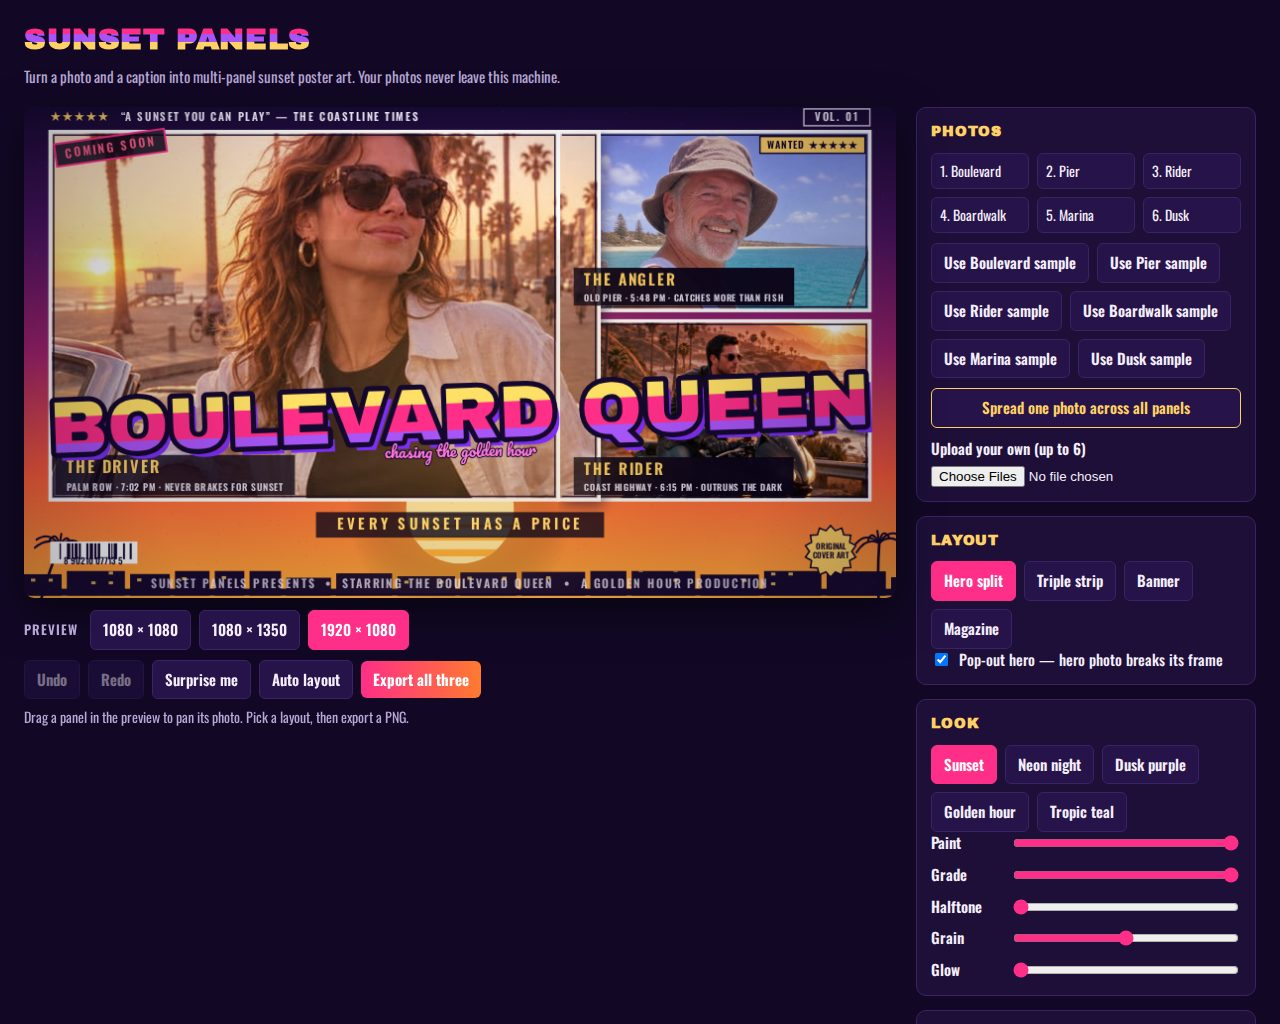
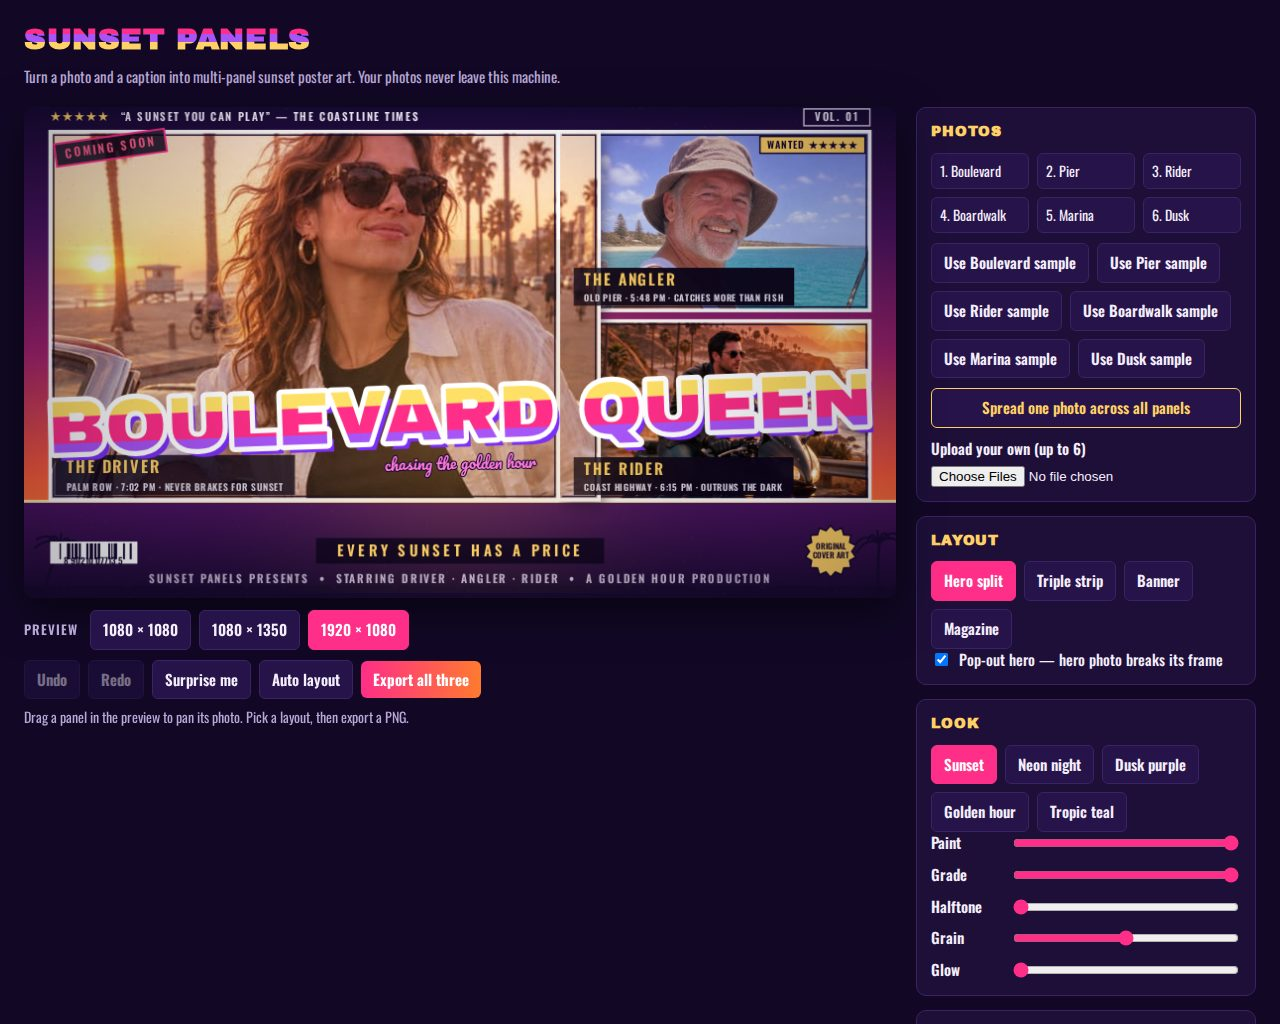
Round 5 revisions: denser cover, bigger white-outlined title, dark footer

Changed region(s): [[0.0, 0.125, 0.7188, 0.5938]]

diff --git a/app/src/cover.js b/app/src/cover.js
@@ -4,7 +4,7 @@
 // are the same drawing. Photos are drawn cover-fit per panel with the panel's
 // own zoom and pan; the caption is big condensed lettering over the low sun.
 
-import { GRADES, paintSky, paintSun, paintSkyline, paintPalm, paintPhotoGrade, paintGrain, paintHalftone, paintVignette, paintStarburst, paintBarcode } from './art.js';
+import { GRADES, paintSky, paintSkyline, paintPalm, paintPhotoGrade, paintGrain, paintHalftone, paintVignette, paintStarburst, paintBarcode } from './art.js';
 import { LAYOUTS, layoutPanels } from './layouts.js';
 
 // Title stripe palettes, picked by the editor's title-colour swatch. The
@@ -18,7 +18,7 @@ export const TITLE_GRADIENTS = {
 
 // Title styles (the editor's Title style switcher). Stripes is the
 // default and renders exactly as the title always has: striped gradient
-// fill + 3D offsets + black outline. Smooth keeps the same palette and
+// fill + 3D offsets + white outline. Smooth keeps the same palette and
 // offsets with a solid (unbanded) gradient. Neon outline is a neon tube:
 // dark glyph fill (so the letter shapes read over busy photos) + a thick
 // gradient stroke + a restrained glow, no 3D offsets.
@@ -152,18 +152,30 @@ function fitTitleFont(ctx, text, maxWidth, baseSize, font) {
 }
 
 // Big condensed title over the photo panels: the masthead IS the poster.
-// It sits across the lower third of the panels (~0.63H, ~0.165H tall) with
+// It sits across the lower third of the panels (~0.63H, ~0.175H tall) with
 // the same yellow/pink/purple striped gradient fill, purple 3D offset under
-// a magenta offset, black outline, tilted two degrees. Faces stay clear
-// because every sample frames its face in the top of its photo.
+// a magenta offset, and a WHITE outline — the white halo separates the
+// letters from any photo background, the way the top-rated covers do
+// (Round 5: the old dark outline merged into dark photo areas, and the
+// title spanned only ~0.77W where the top covers span ~0.85–0.95W).
+// The size is 0.175H, not 0.185H: at 0.185H the title's top edge
+// (0.5375H) plus the taller panels pushed the bottom-row faces' eyes
+// above the panels' top edge (verified by a Playwright probe — the
+// guard can only pan a face so far up before the subject stops
+// fitting). At 0.175H the eyes stay visible with the chin at the
+// title's top edge. Faces stay clear because every sample frames its
+// face in the top of its photo, and the editor's masthead guard
+// (autoFramePanels) knows this geometry: titleTop is 0.63H minus
+// (0.36 cap + 0.14 outline) of 0.175H.
 // `state.titleStyle` picks the fill: 'stripes' (default, striped gradient),
 // 'smooth' (same palette and offsets, solid gradient) or 'neon' (neon tube:
-// dark glyph fill, thick gradient stroke, restrained glow, no 3D offsets).
+// dark glyph fill, thick gradient stroke, restrained glow, no 3D offsets —
+// the neon look keeps its dark fill, it is a different treatment).
 export function drawPosterTitle(ctx, W, H, state, grade) {
   const u = W / 1080;
   const title = (state.title || '').toUpperCase();
   if (!title) return;
-  const baseSize = H * 0.165 * (state.titleSize || 1);
+  const baseSize = H * 0.175 * (state.titleSize || 1);
   const font = TITLE_FONTS.some((f) => f.id === state.titleFont) ? state.titleFont : 'Archivo Black';
   const size = fitTitleFont(ctx, title, W * 0.94, baseSize, font);
   // Colour template wins when set (default 'sunset' = the original
@@ -227,9 +239,11 @@ export function drawPosterTitle(ctx, W, H, state, grade) {
     ctx.strokeText(title, 0, 0);
     ctx.shadowBlur = 0;
   } else {
-    // Black outline, then the gradient fill (striped or smooth).
+    // White outline, then the gradient fill (striped or smooth). The
+    // white halo is what makes the title pop off busy photos; the purple
+    // and magenta 3D offsets underneath still give it depth.
     if (state.outline !== false) {
-      ctx.strokeStyle = '#14082e';
+      ctx.strokeStyle = '#ffffff';
       ctx.lineWidth = Math.max(3, size * 0.14);
       ctx.strokeText(title, 0, 0);
     }
@@ -259,7 +273,7 @@ export function drawScriptSubtitle(ctx, W, H, state) {
   ctx.textAlign = 'center';
   ctx.textBaseline = 'middle';
   ctx.lineJoin = 'round';
-  ctx.translate(W / 2, H * 0.705);
+  ctx.translate(W / 2, H * 0.73);
   ctx.rotate(-0.02);
   ctx.strokeStyle = '#14082e';
   ctx.lineWidth = Math.max(2, size * 0.1);
@@ -442,11 +456,20 @@ function drawSeal(ctx, W, H, grade) {
   ctx.restore();
 }
 
-// Production-credits footer along the very bottom edge. The text is
+// Production-credits footer along the very bottom edge. The cast list is
+// built from the panels' role tags (the "THE " prefix stripped), so the
+// footer names the whole cast the way the top covers do — "STARRING THE
+// BOULEVARD QUEEN" named one person; now every panel's role is listed.
+// Falls back to the static text when a cover has no tags. The text is
 // shrunk to fit between the barcode (left) and the seal (right), so it
 // never runs off the canvas or under either of them.
-function drawCredits(ctx, W, H) {
-  const text = 'SUNSET PANELS PRESENTS  •  STARRING THE BOULEVARD QUEEN  •  A GOLDEN HOUR PRODUCTION';
+function drawCredits(ctx, W, H, state) {
+  const roles = (state && Array.isArray(state.panels) ? state.panels : [])
+    .map((p) => (p && p.tag ? String(p.tag).replace(/^THE\s+/i, '').trim() : ''))
+    .filter(Boolean);
+  const text = roles.length
+    ? `SUNSET PANELS PRESENTS  •  STARRING ${roles.join(' · ').toUpperCase()}  •  A GOLDEN HOUR PRODUCTION`
+    : 'SUNSET PANELS PRESENTS  •  STARRING THE BOULEVARD QUEEN  •  A GOLDEN HOUR PRODUCTION';
   const maxW = W * 0.72;
   let size = Math.max(9, W * 0.0135);
   ctx.save();
@@ -459,26 +482,36 @@ function drawCredits(ctx, W, H) {
   ctx.fillStyle = 'rgba(245, 238, 252, 0.75)';
   ctx.textAlign = 'center';
   ctx.textBaseline = 'middle';
-  ctx.fillText(text, W / 2, H * 0.972);
+  ctx.fillText(text, W / 2, H * 0.962);
   ctx.restore();
 }
 
-// Tagline on a translucent black ribbon under the title.
+// Tagline on a translucent black ribbon in the footer band (Round 5: it
+// used to sit at 0.825H, where it bisected the footer sun disc and sat
+// far from the masthead; the footer is now a slim dark band, so the
+// ribbon lives there, clear of the seal at the right — its width is
+// capped at 0.68W and the type shrinks to fit, so long taglines stay
+// inside the ribbon instead of spilling past its ends).
 export function drawTaglineRibbon(ctx, W, H, state) {
   const tagline = (state.tagline || '').toUpperCase();
   if (!tagline) return;
   const u = W / 1080;
-  const size = Math.max(13, H * 0.03);
+  let size = Math.max(13, H * 0.03);
   ctx.save();
   ctx.font = `600 ${size}px Oswald, sans-serif`;
   try { ctx.letterSpacing = `${Math.max(2, size * 0.22)}px`; } catch { /* older canvas: no letter spacing */ }
-  const tw = ctx.measureText(tagline).width;
   const padX = u * 26;
   const padY = H * 0.011;
-  const ribbonW = Math.min(W * 0.92, tw + padX * 2);
+  let tw = ctx.measureText(tagline).width;
+  while (tw + padX * 2 > W * 0.68 && size > 10) {
+    size -= 1;
+    ctx.font = `600 ${size}px Oswald, sans-serif`;
+    tw = ctx.measureText(tagline).width;
+  }
+  const ribbonW = Math.min(W * 0.68, tw + padX * 2);
   const ribbonH = size + padY * 2;
   const rx = (W - ribbonW) / 2;
-  const ry = H * 0.825;
+  const ry = H * 0.878;
   ctx.fillStyle = 'rgba(12, 5, 26, 0.78)';
   ctx.fillRect(rx, ry, ribbonW, ribbonH);
   ctx.fillStyle = state.taglineColor || '#ffd166';
@@ -593,9 +626,12 @@ function drawHeroBreakout(ctx, W, H, state, rects, grade, paintS) {
 }
 
 // Panel rects for a cover of size W x H with the given layout.
-// The panel zone now runs to 0.80H so the photos fill most of the poster
-// and the masthead can overlap their lower third; the footer band below
-// it holds only the tagline ribbon, barcode, seal and credits.
+// The panel zone runs to 0.80H (Round 5 tried 0.86H for a denser cover,
+// but the taller panels shrink the clear strip above the title so far
+// that the bottom-row faces' eyes are pushed above the panels' top edge
+// — verified by a Playwright probe: the guard can only pan a face up
+// until the subject stops fitting. The density gain now comes from the
+// dark footer band below the panels instead of taller panels).
 export function coverPanelRects(W, H, layout) {
   const gutter = Math.max(6, W * 0.012);
   const zone = { x: W * 0.03, y: H * 0.05, w: W * 0.94, h: H * 0.75, gutter };
@@ -617,13 +653,25 @@ export function renderCover(ctx, W, H, state) {
   ctx.clearRect(0, 0, W, H);
 
   paintSky(ctx, W, H, grade, gradeS);
-  paintSun(ctx, W / 2, H * 0.82, H * 0.11, grade);
-  // Thin skyline footer strip at the very bottom (clipped so only the
-  // towers' bases show), not the tall black band that used to cut the
-  // cover in two.
+  // Dark footer band (0.80H to the bottom edge), the way the top-rated
+  // covers do it: a deep purple gradient, with a thin gold horizon line
+  // along its top edge so the sunset accent survives. Round 5: the
+  // footer used to be a tall orange band with a sun disc that the
+  // tagline ribbon cut in half; the disc is gone, and the band now
+  // holds the ribbon, barcode, seal and credits on clean dark.
+  const footer = ctx.createLinearGradient(0, H * 0.80, 0, H);
+  footer.addColorStop(0, grade.sky[1]);
+  footer.addColorStop(1, grade.silhouette);
+  ctx.fillStyle = footer;
+  ctx.fillRect(0, H * 0.80, W, H * 0.20);
+  ctx.fillStyle = grade.sun;
+  ctx.fillRect(0, H * 0.80, W, Math.max(2, H * 0.006));
+  // Thin skyline strip at the very bottom edge (clipped so only the
+  // towers' bases show, below the credits line — the old strip crossed
+  // the credits text and its towers poked through the letters).
   ctx.save();
   ctx.beginPath();
-  ctx.rect(0, H * 0.945, W, H * 0.055);
+  ctx.rect(0, H * 0.975, W, H * 0.025);
   ctx.clip();
   paintSkyline(ctx, W, H * 0.995, H, grade, 1234567);
   ctx.restore();
@@ -669,7 +717,7 @@ export function renderCover(ctx, W, H, state) {
     });
   }
 
-  if (halfAmt > 0) paintHalftone(ctx, W, H * 0.81, H * 0.97, grade, halfAmt / 50);
+  if (halfAmt > 0) paintHalftone(ctx, W, H * 0.80, H * 0.99, grade, halfAmt / 50);
 
   // Palm silhouettes framing the footer band, bases just inside the edges
   // so the trunk and the frond fan read as trees, not stray strokes.
@@ -694,7 +742,7 @@ export function renderCover(ctx, W, H, state) {
   // Bottom band: barcode ticket, seal sticker, credits footer.
   paintBarcode(ctx, W * 0.03, H * 0.885, W * 0.1, H * 0.045, 90210);
   drawSeal(ctx, W, H, grade);
-  drawCredits(ctx, W, H);
+  drawCredits(ctx, W, H, state);
 
   if (grainAmt > 0) paintGrain(ctx, W, H, Math.floor((W * H) / 900 * (grainAmt / 50)));
   paintVignette(ctx, W, H);

diff --git a/app/src/editor.js b/app/src/editor.js
@@ -269,12 +269,12 @@ function previewPanelRects() {
 function autoFramePanels(W, H) {
   const rects = coverPanelRects(W, H, state.layout);
   // Top edge of the masthead's glyphs (centre 0.63H minus half the cap
-  // height, ~0.36 of the 0.165H title size, scaled by the title-size
-  // slider), minus the dark outline, which extends a further 0.14 of the
+  // height, ~0.36 of the 0.175H title size, scaled by the title-size
+  // slider), minus the outline, which extends a further 0.14 of the
   // title size above the glyphs. The 3D offsets only extend downwards.
   // (The outline matters: a face whose chin sits under it reads as
   // covered by the title even though it clears the glyph top.)
-  const titleTop = H * (0.63 - 0.0821 * (state.titleSize || 1));
+  const titleTop = H * (0.63 - 0.0875 * (state.titleSize || 1));
   state.panels.forEach((panel, i) => {
     const rect = rects[i];
     const photo = state.photos[panel.photo];
@@ -723,7 +723,7 @@ function panFaceTo(rect, photo, zoom, fx, fy, H) {
     const maxOy = (dh - rect.h) / 2;
     let targetY = fy;
     if (targetY === null || targetY === undefined) {
-      const titleTop = H * (0.63 - 0.059 * (state.titleSize || 1));
+      const titleTop = H * (0.63 - 0.063 * (state.titleSize || 1));
       const underTitle = rect.y < titleTop && rect.y + rect.h > titleTop;
       targetY = underTitle && rect.h < H * 0.45 ? ((titleTop - rect.y) / 2) / rect.h : 0.5;
     }
